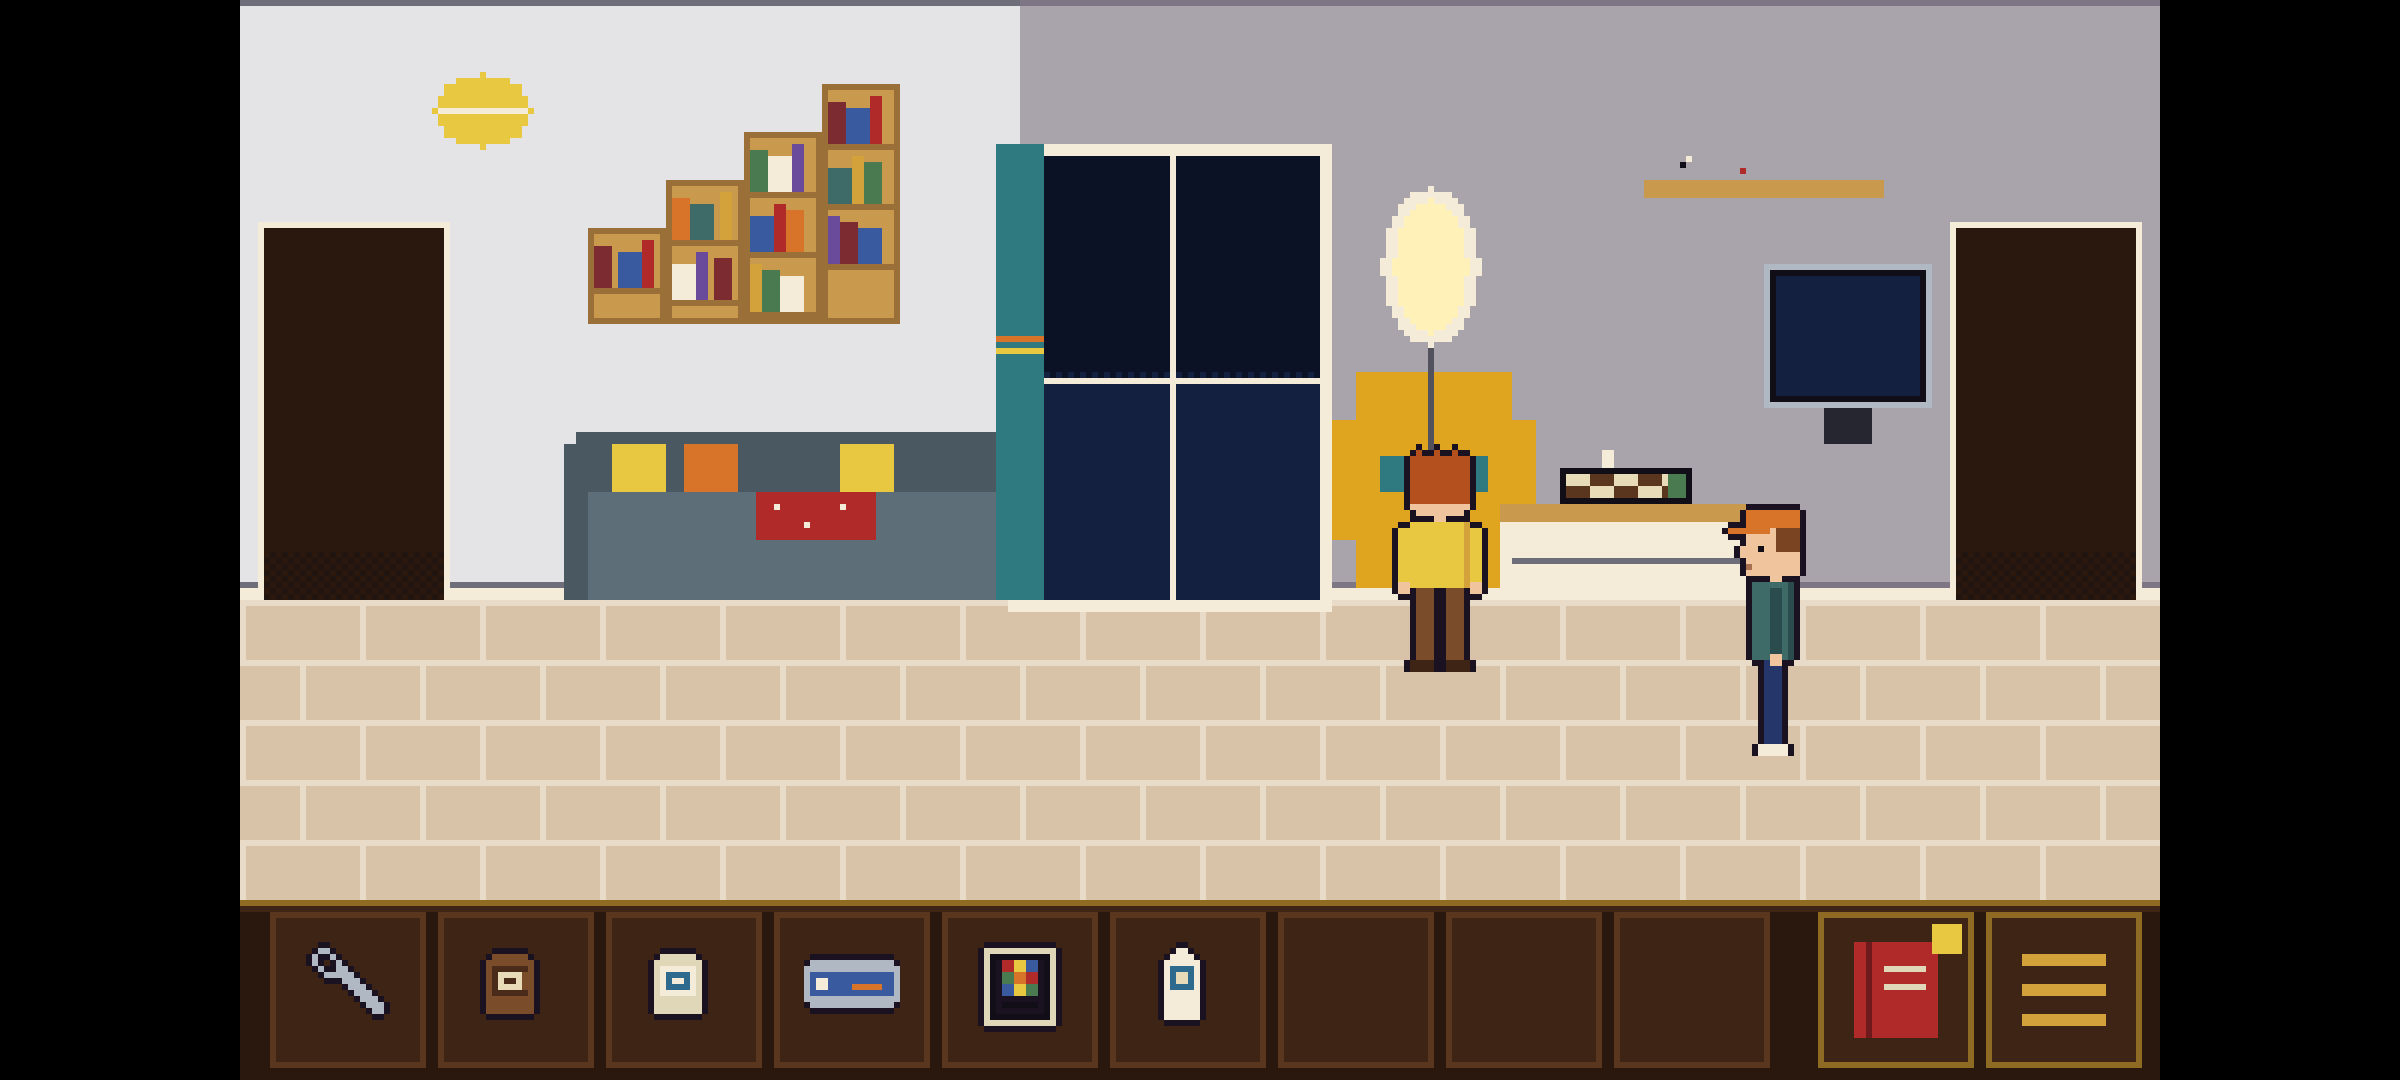
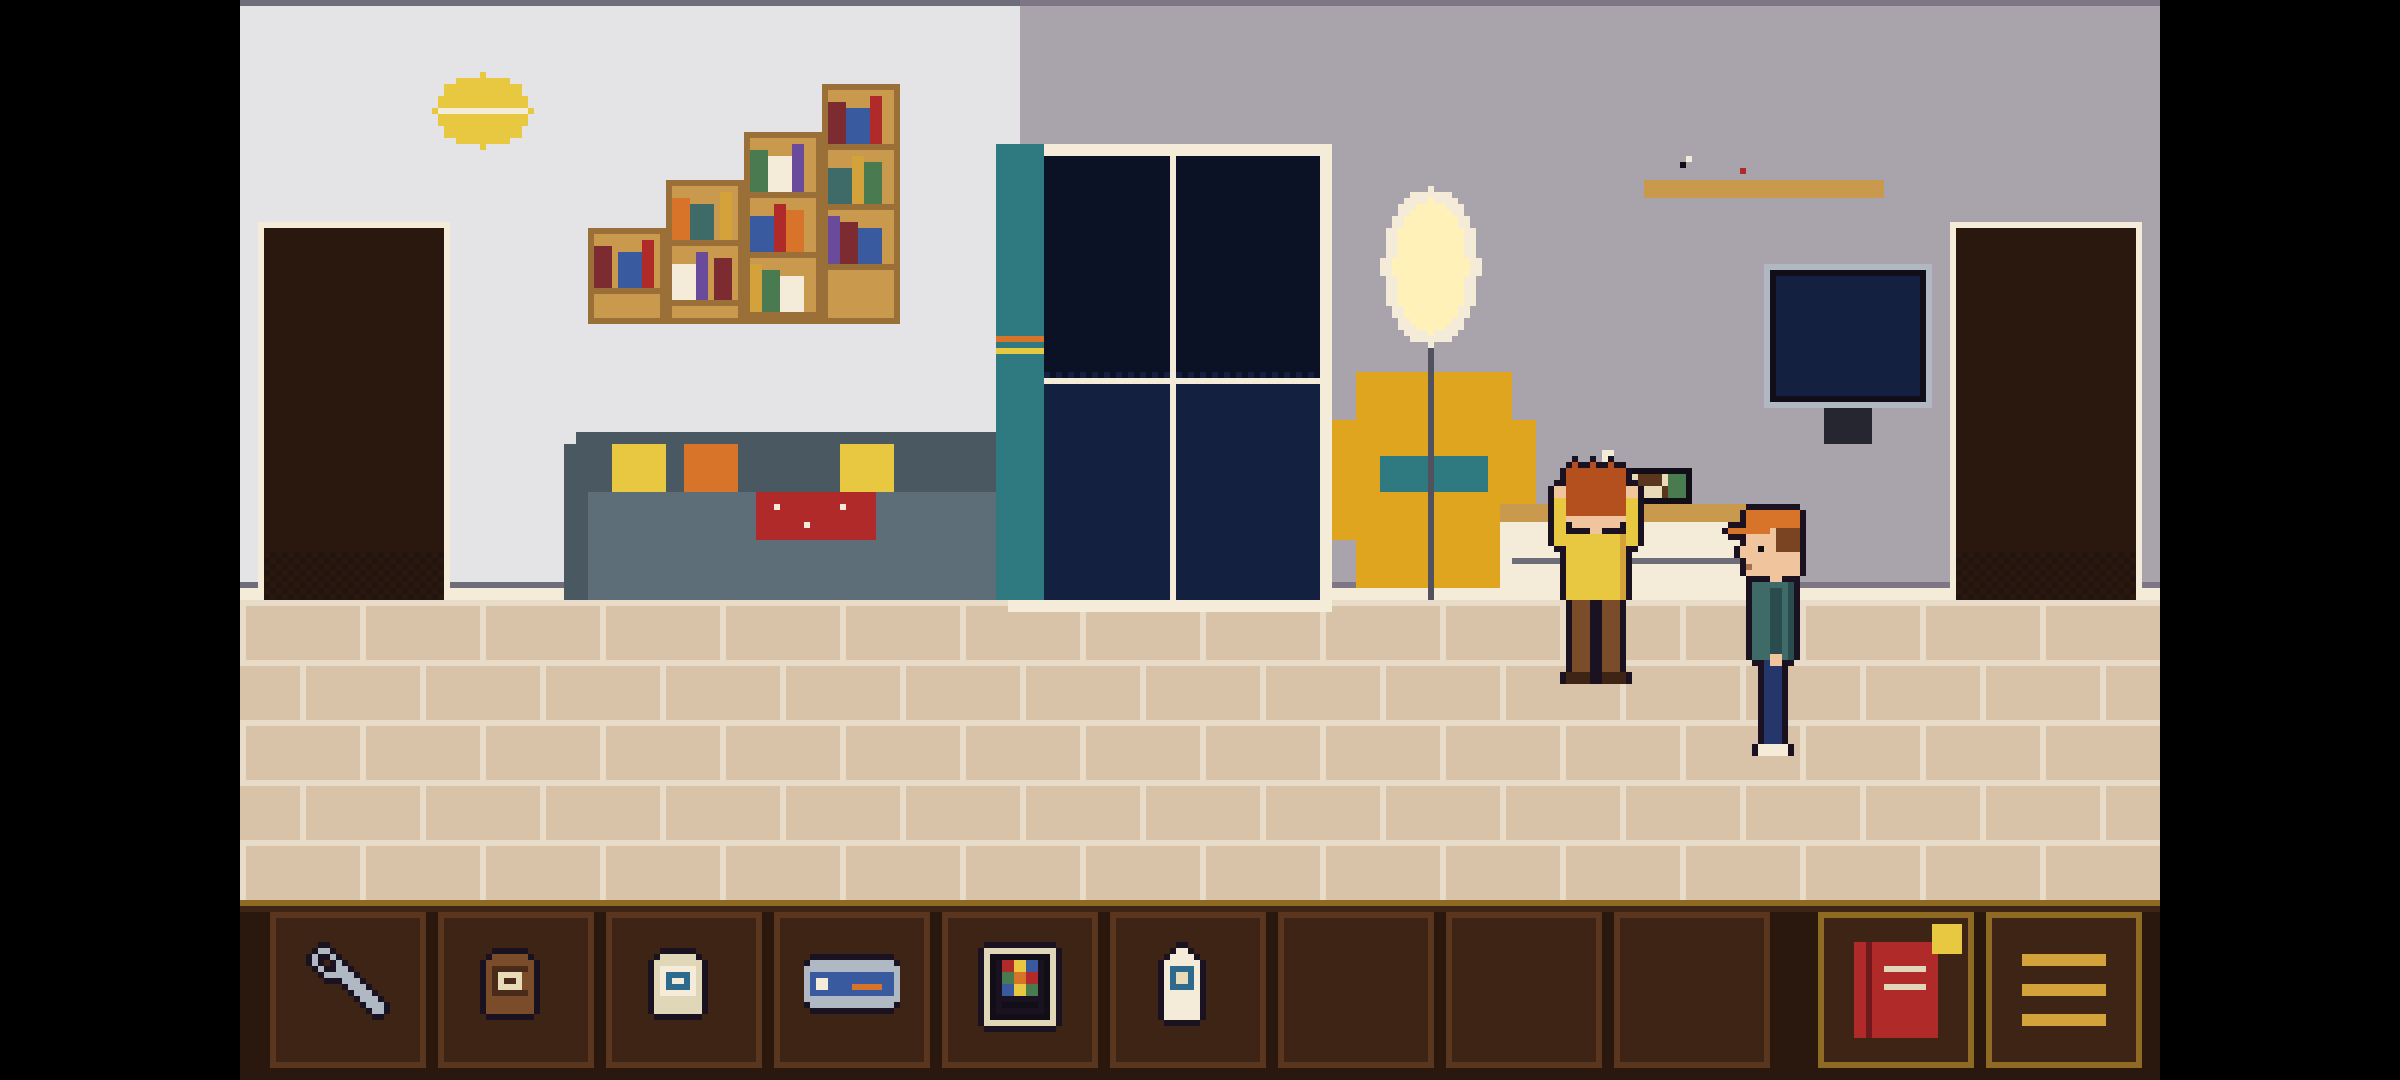
docs: verification evidence v0.2.0 (commit ba8bab8)

Changed region(s): [[0.5625, 0.3972, 0.6875, 0.6417]]

diff --git a/docs/evidence/v0.2.0/AC-MATRIX.md b/docs/evidence/v0.2.0/AC-MATRIX.md
@@ -4,7 +4,7 @@ Produced by the `verifier` agent from the PRD and the evidence of this version (
 by the capture-scene test of fbb6b6b). One row per acceptance criterion. Result is `PASS`, `FAIL`, `NOT PROVEN` or
 `PENDING RELEASE`. Evidence must be a concrete pointer (test name, flow + screenshot, report line).
 
-Verified commit: fbb6b6b (REPORT.md Overall PASS, 321 Jest tests, APK SHA-256 4857501be8a81b30c6e6fac4a827c18f332ac2599504384e8f293ef455123397, built at d5f7d1f; fbb6b6b only adds a test and a PRD wording).
+Verified commit: ba8bab8 (REPORT.md Overall PASS, 325 Jest tests, APK SHA-256 a3dc65681647be3afe49f9b60775d4882d12b8caa39945a6e0a6a59881e8976d). After the matrix check: fbb6b6b (capture-scene test closing AC-69) and ba8bab8 (phone feedback: items gone once taken, inventory page button, Théo in front of the chessboard; tests in act2.test.ts).
 
 | AC | Proof | Evidence | Status |
 |---|---|---|---|
@@ -12,7 +12,7 @@ Verified commit: fbb6b6b (REPORT.md Overall PASS, 321 Jest tests, APK SHA-256 48
 | AC-02 | e2e+unit | 01-consent-home.yaml: tap consent-refuse, assertVisible home-screen, stopApp/launchApp, assertNotVisible consent-screen; App.test.tsx App > "accepting also leads home and is remembered on the next launch (AC-02)" | PASS |
 | AC-03 | unit | App.test.tsx App > "speaks English on an English phone and on a phone in an unsupported language (AC-01, AC-03)"; content.test.ts story content in every language > "switches the game content with the language"; i18n.test.ts resolveLanguage > "takes the phone's first supported language" / "falls back when no phone language is supported" | PASS |
 | AC-04 | e2e+unit | .maestro/language.yaml (fr to en, survives stopApp/launchApp; screens language-fr-settings.png, language-en-settings.png, language-en-home.png); App.test.tsx App > "switches the whole UI language at once, remembers it, and "Automatic" follows the phone again (AC-04)", "after a language change, the game itself speaks the new language: places, lines and notebook (AC-04)" | PASS |
-| AC-05 | device | DEVICE-CHECKS.md (fbb6b6b, APK 4857501b…): aapt label 'Mini Mansion' (default/fr/en), screenOrientation landscape, dumpsys status and nav bars hidden; appConfig.test.ts Expo config (AC-05). Not yet checked: launcher on the phone and arm64 APK size < 60 MB (the emulator APK is the 136 MB universal build) | PENDING RELEASE |
+| AC-05 | device | DEVICE-CHECKS.md (ba8bab8, APK a3dc6568…): aapt label 'Mini Mansion' (default/fr/en), screenOrientation landscape, dumpsys status and nav bars hidden; appConfig.test.ts Expo config (AC-05). Not yet checked: launcher on the phone and arm64 APK size < 60 MB (the emulator APK is the 136 MB universal build) | PENDING RELEASE |
 | AC-06 | unit+device | gameTelemetry.test.ts telemetry events (AC-06, AC-07) > "nothing is sent without consent…", "the typed catalogue declares exactly the PRD events", "…turning statistics off sends nothing"; telemetry.test.ts telemetry consent > "sends nothing without consent"; App.test.tsx "turning statistics on logs settings_change after consent is granted; off sends nothing (AC-06)"; DEVICE-CHECKS.md refused run: 0 `Logging event` lines | PASS |
 | AC-07 | unit | gameTelemetry.test.ts > "maps the engine facts of a whole game to puzzle_solved, capture and game_complete with numbers and enums only", "game_start, settings and language changes use the listed enums…"; telemetry.test.ts sanitizeParams > both tests | PASS |
 | AC-08 | device | REPORT.md step 13 "seen in logcat: game_start, tutorial_complete, puzzle_solved"; .maestro/telemetry-consent.yaml; screens/telemetry-hall.png | PASS |
@@ -66,14 +66,14 @@ Verified commit: fbb6b6b (REPORT.md Overall PASS, 321 Jest tests, APK SHA-256 48
 | AC-38 | unit | core.test.ts play time (AC-38, AC-40) > "advances only while active and not finished"; GameScreen.test.tsx "play time does not advance while paused (AC-38)", "the menu button and leaving the app pause the game…" | PASS |
 | AC-39 | e2e+unit | 04-pause-background.yaml pause-resume/settings/home visible, pressKey Home + relaunch, assertVisible pause; screens/10-pause.png, 11-paused-after-background.png; GameScreen.test.tsx "the menu button and leaving the app pause the game and save it (AC-39, AC-50)" | PASS |
 | AC-40 | unit | core.test.ts "whole minutes rounded down, minutes on 2 digits, hours without padding" (0/59/300/3599/11520 s to 0 h 00 … 3 h 12); content.test.ts ending.time / ending.captures format; screens/readme-3-ending.png | PASS |
-| AC-41 | e2e | .maestro/06-walkthrough.yaml passed (10m 48s, raw/maestro.txt) on the release APK: ending-screen, ending-time, ending-captures, ending-home, assertNotVisible home-continue; screens/readme-3-ending.png; walkthroughFlow.test.ts walkthrough flow (AC-41) > 2 tests | PASS |
+| AC-41 | e2e | .maestro/06-walkthrough.yaml passed (10m 59s, raw/maestro.txt) on the release APK: ending-screen, ending-time, ending-captures, ending-home, assertNotVisible home-continue; screens/readme-3-ending.png; walkthroughFlow.test.ts walkthrough flow (AC-41) > 2 tests | PASS |
 | AC-42 | e2e+unit | 05-settings-about.yaml toggles + language-auto visible, music off survives relaunch, erase + confirm, no home-continue; screens/12-settings.png; App.test.tsx "settings: toggles persist, erasing removes Continue but keeps settings and consent (AC-42)", "erasing the game keeps the chosen language (AC-42)" | PASS |
 | AC-43 | unit | sound.test.ts sound effects (AC-43) > "play only when the sound effects are on"; music (AC-43) > "plays the house theme in front, pauses in background or when off…" | PASS |
 | AC-44 | e2e+unit | 05-settings-about.yaml about-screen + ".*Maniac Mansion.*"; screens/13-about.png; App.test.tsx "shows the About screen in %s: story, word from the author, data, version (AC-44)" (fr, en) | PASS |
 | AC-45 | unit | noLiterals.test.ts no hard-coded player-facing text (AC-45); i18n.test.ts "%s has exactly the keys of the reference dictionary"; content.test.ts French typography and tone (AC-45) > incl. "matches the Player copy table of the PRD" and the English column; solver.test.ts "every line any explored interaction says exists in %s (AC-45)" | PASS |
 | AC-49 | unit | interaction.test.ts spoken lines (AC-49) > "stay max(2 s, 50 ms x length) unless tapped"; GameScreen.test.tsx "a spoken line stays until tapped…", capture scene, door view, kitchen view, hose view (unskippable); characters.test.ts "the front door and kitchen views cannot be skipped either"; act2.test.ts delivery (cinematic on) and the outside views of Act II cannot be skipped (AC-49) > "Florent riding away, the power cut, the jury ringing and tasting" | PASS |
 | AC-50 | unit | GameScreen.test.tsx "a save during a cutscene stores the state after it… (AC-50)", "the menu button and leaving the app pause the game and save it (AC-39, AC-50)"; notebook.test.ts "a cutscene is never half-played in the state… (AC-50)"; App.test.tsx "a finished save only offers a new game… (AC-50)", "killed during the ending: the relaunch sends no second game_complete (AC-50)" | PASS |
-| AC-46 | device | REPORT.md step 10 "median 970 ms of 927 / 970 / 1122 ms… (target < 3000 ms)"; DEVICE-CHECKS.md | PASS |
+| AC-46 | device | REPORT.md step 10 "median 970 ms of 970 / 930 / 1062 ms… (target < 3000 ms)"; DEVICE-CHECKS.md | PASS |
 | AC-47 | device | REPORT.md step 11 "8/8 flows passed", step 12 "0 fatal log lines"; DEVICE-CHECKS.md "No ANR… 0 ANR entries for the package" | PASS |
 | AC-48 | manual | Feel test on the user's phone, not done yet (DEVICE-CHECKS.md "Not checked here") | PENDING RELEASE |
 | AC-57 | manual | Photographed rooms and readable Act II scenes on the phone, not done yet (DEVICE-CHECKS.md "Not checked here") | PENDING RELEASE |

diff --git a/docs/evidence/v0.2.0/REPORT.md b/docs/evidence/v0.2.0/REPORT.md
@@ -1,26 +1,26 @@
 # Verification report: Mini Mansion v0.2.0
 
 Overall: PASS
-Commit: fbb6b6b
-Date: 2026-10-23 15:28 UTC
+Commit: ba8bab8
+Date: 2026-10-23 17:41 UTC
 Stack: expo
 Target: emulator sdk_gphone64_x86_64, Android 16 (API 36, x86_64)
 APK: mini-mansion-0.2.0-universal.apk (136 MB)
-SHA-256: 4857501be8a81b30c6e6fac4a827c18f332ac2599504384e8f293ef455123397
+SHA-256: a3dc65681647be3afe49f9b60775d4882d12b8caa39945a6e0a6a59881e8976d
 
 | # | Step | Result | Evidence |
 |---|---|---|---|
-| 1 | clean working tree | PASS | commit fbb6b6b |
+| 1 | clean working tree | PASS | commit ba8bab8 |
 | 2 | typecheck | PASS | `tsc --noEmit` exit 0 |
-| 3 | unit tests (Jest) | PASS | Tests:       321 passed, 321 total |
+| 3 | unit tests (Jest) | PASS | Tests:       325 passed, 325 total |
 | 4 | expo-doctor | WARN | issues reported (see raw/expo-doctor.txt) |
 | 5 | secrets & personal data scan | PASS | secret-scan (worktree): clean |
 | 6 | release build | PASS | mini-mansion-0.2.0-universal.apk, 136 MB, Firebase on |
 | 7 | release signature | PASS | release signature valid; cert SHA-256 54da35e17c99b321... |
 | 8 | install (adb) | PASS | Performing Streamed Install Success |
 | 9 | launch, alive after 8 s, no fatal error | PASS | process alive, 0 fatal log lines |
-| 10 | cold start time | PASS | median 970 ms of 927 / 970 / 1122 ms after a warm-up launch (target < 3000 ms) |
-| 11 | Maestro E2E flows | PASS | 8/8 flows passed, 20 screenshots in screens/ |
+| 10 | cold start time | PASS | median 970 ms of 970 / 930 / 1062 ms after a warm-up launch (target < 3000 ms) |
+| 11 | Maestro E2E flows | PASS | 8/8 flows passed, 21 screenshots in screens/ |
 | 12 | no crash during e2e flows | PASS | 0 fatal log lines (crash buffer + errors, raw/logcat-e2e.txt) |
 | 13 | telemetry events after consent | PASS | seen in logcat: game_start, tutorial_complete, puzzle_solved |
 

diff --git a/docs/evidence/v0.2.0/DEVICE-CHECKS.md b/docs/evidence/v0.2.0/DEVICE-CHECKS.md
@@ -1,7 +1,7 @@
 # Device checks: Mini Mansion v0.2.0
 
-Commit: fbb6b6b (APK built at d5f7d1f; fbb6b6b only adds a test and a PRD wording)
-APK: dist/mini-mansion-0.2.0-universal.apk, SHA-256 4857501be8a81b30c6e6fac4a827c18f332ac2599504384e8f293ef455123397
+Commit: ba8bab8
+APK: dist/mini-mansion-0.2.0-universal.apk, SHA-256 a3dc65681647be3afe49f9b60775d4882d12b8caa39945a6e0a6a59881e8976d
 Device: emulator sdk_gphone64_x86_64, Android 16 (API 36), 2400x1080 landscape
 Date: 2026-10-23
 
@@ -18,7 +18,7 @@ in `raw/device-*.txt` (local, git-ignored).
 | Events sent after « Accepter » (AC-08) | `verify.mjs --telemetry` (REPORT.md step 13, raw/logcat-telemetry.txt) | PASS: game_start, tutorial_complete, puzzle_solved seen |
 | Cold start < 3 s (AC-46) | `verify.mjs` (REPORT.md step 10) | PASS: median 970 ms |
 | No crash during the flows (AC-47) | `verify.mjs` (REPORT.md step 12: crash buffer cleared before the run, empty after) | PASS: 0 fatal log lines |
-| No ANR during the flows (AC-47) | `dumpsys dropbox --print data_app_anr` and `logcat -b events` `am_anr` (raw/device-anr.txt); the events buffer starts at 10-23 13:57, before this verification run (2026-10-23 15:28 UTC) | PASS: 0 ANR entries for the package |
+| No ANR during the flows (AC-47) | `dumpsys dropbox --print data_app_anr` and `logcat -b events` `am_anr` (raw/device-anr.txt); the events buffer starts at 10-23 14:59, before this verification run (2026-10-23 17:41 UTC) | PASS: 0 ANR entries for the package |
 
 Not checked here (on the phone at release): APK size of the arm64 phone build (the universal emulator APK is 136 MB
 because it carries 4 ABIs; the phone build is arm64 only, target < 60 MB), the launcher name seen on the phone, the
